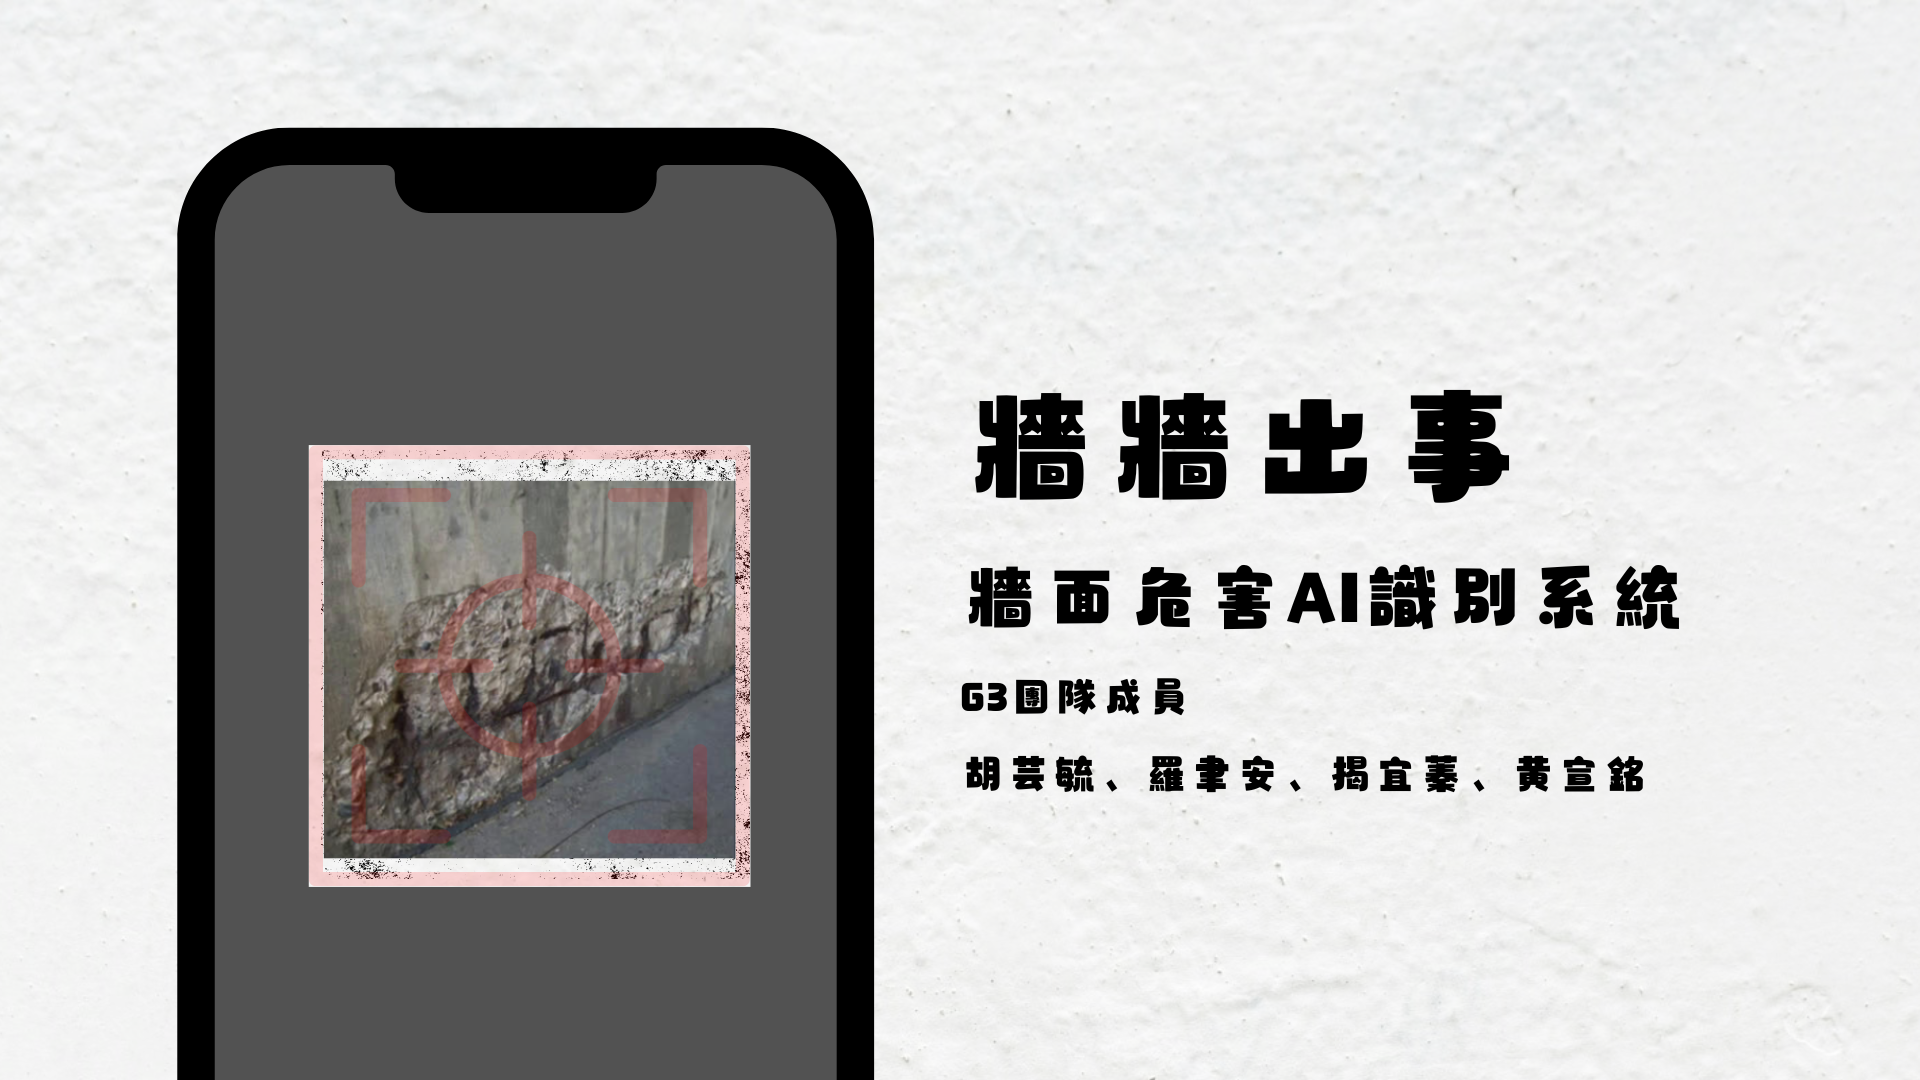
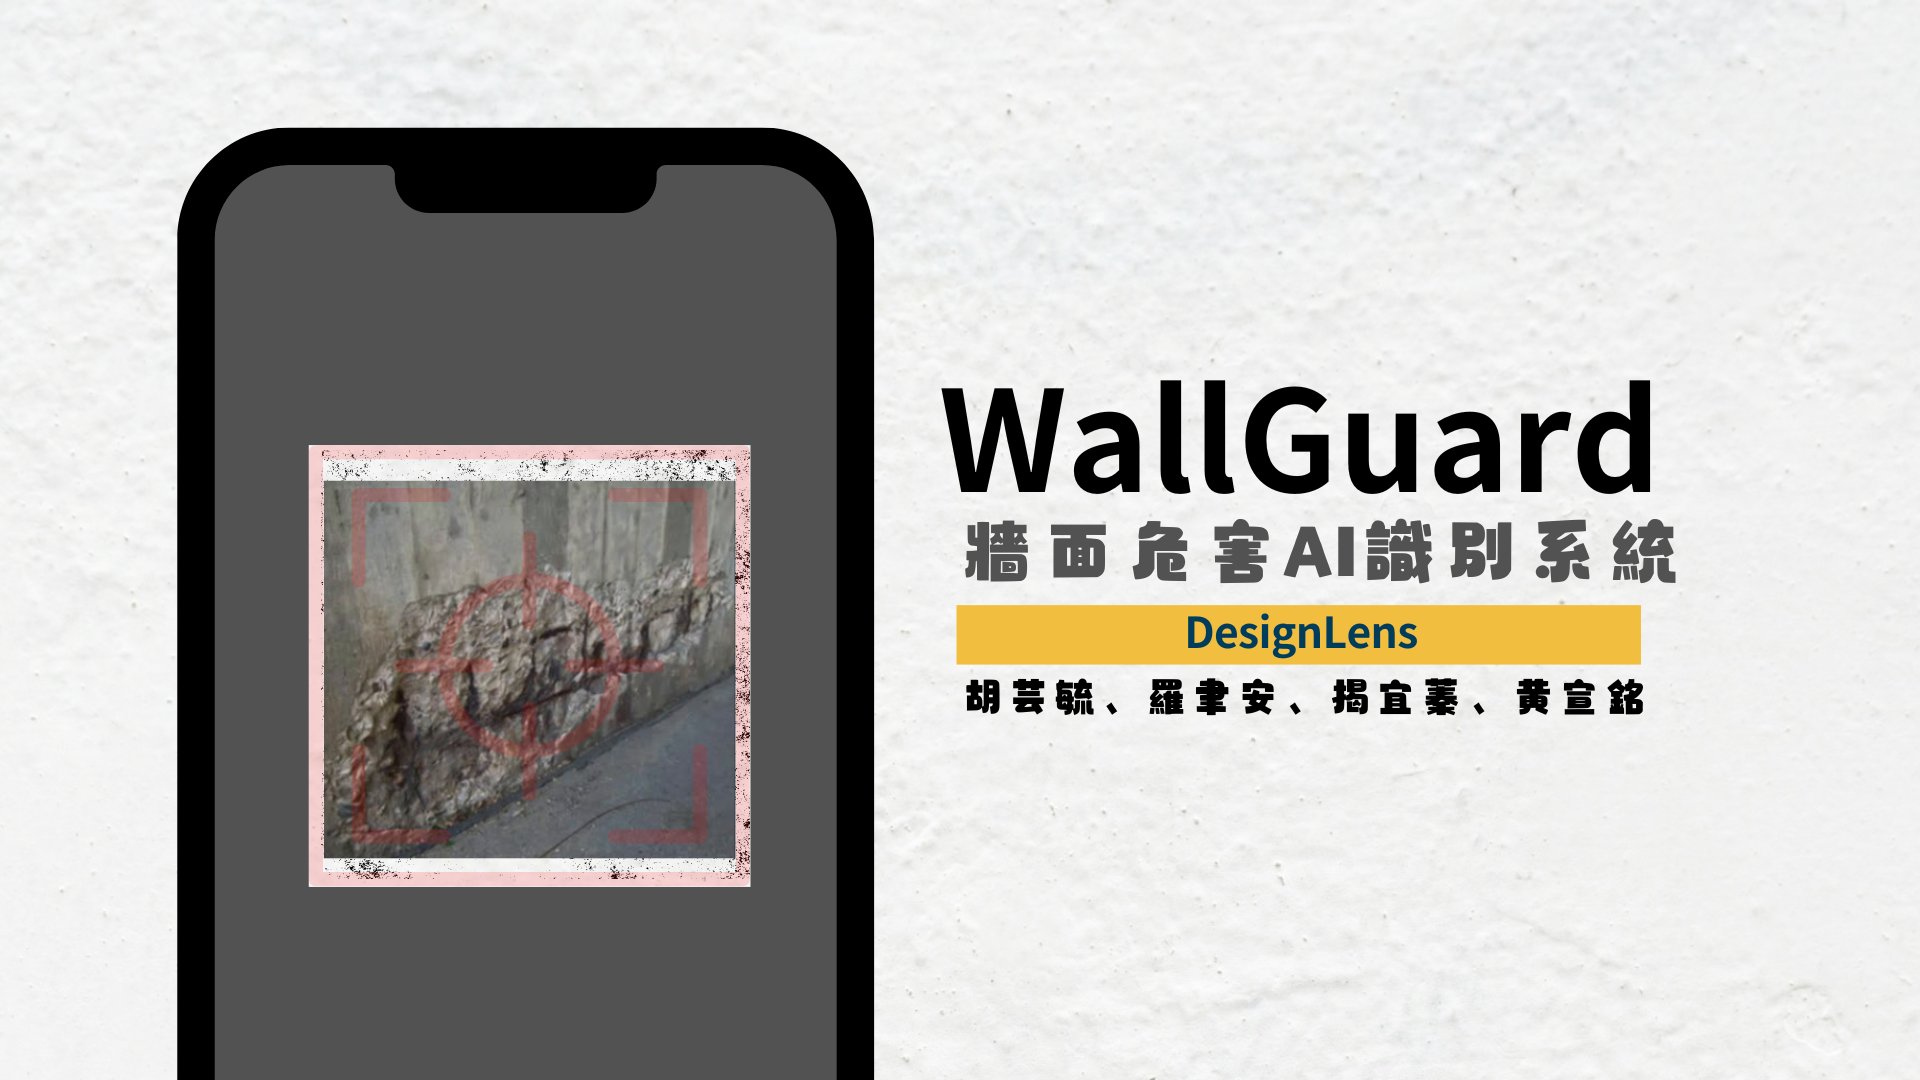
feat(projects): link project cards to external pages

Changed region(s): [[0.4688, 0.3361, 0.875, 0.6722], [0.5, 0.7028, 0.875, 0.7333]]

diff --git a/src/app/projects/page.js b/src/app/projects/page.js
@@ -15,7 +15,7 @@ const projects = [
     title: "健保快易通 Redesign",
     description: "以慢性病與一般民眾為對象，重構健保資訊介面與架構",
     image: NhiImg,
-    url: "https://your-nhi-project-link.com",
+    url: "https://reurl.cc/gRG60z",
     tags: ["使用者研究", "健康資料整合", "介面設計", "主動賦能"]
   },
   {
@@ -23,15 +23,15 @@ const projects = [
     title: "FlexiTouch：軟性裝置互動設計",
     description: "探索柔性材質觸控互動，設計按壓與拉伸的情境體驗",
     image: FlexiImg,
-    url: "https://your-flexitouch-demo.com",
+    url: "https://youtu.be/zUyFzP0OjnA",
     tags: ["TAICHI Best Demo", "League of VR", "遊戲互動設計", "柔性裝置"]
   },
   {
     year: "2024",
-    title: "牆面危害 AI 識別系統",
+    title: "WallGuard:牆面危害 AI 識別系統",
     description: "導入 YOLO 與風險模型，打造即時牆面危害辨識原型",
     image: WallImg,
-    url: "https://your-wall-ai-project.com",
+    url: "https://youtu.be/pVikml-YPsw",
     tags: ["AI識別", "InnoFest 展出", "建築巡檢", "YOLO"]
   },
   {
@@ -39,7 +39,7 @@ const projects = [
     title: "政大場地管理系統 Redesign",
     description: "優化場地借用平台，提升分類清晰度與操作流程",
     image: VenueImg,
-    url: "https://your-nccu-venue-redesign.com",
+    url: "https://reurl.cc/zq1DoV",
     tags: ["UX Redesign", "資訊架構", "流程優化"]
   },
   {
@@ -47,7 +47,7 @@ const projects = [
     title: "iHarbor 長照服務設計",
     description: "以照護者與眷屬的醫病照護關係為核心，設計共享資訊與照護透明化工具",
     image: IHarborImg,
-    url: "https://your-iharbor-project.com",
+    url: "https://www.youtube.com/watch?v=1JmtzLllJCA",
     tags: ["長照設計", "醫病溝通", "服務設計"]
   },
   {
@@ -55,7 +55,7 @@ const projects = [
     title: "Tears of Ancestors：2D 遊戲",
     description: "結合探索與打怪的雙機制，進入創意設計競賽決賽",
     image: TearsImg,
-    url: "https://your-2d-game-link.com",
+    url: "https://youtu.be/utajysQgYvw",
     tags: ["遊戲腳本", "對話設計", "遊戲開發", "決賽入選"]
   },
   {
@@ -63,7 +63,7 @@ const projects = [
     title: "DeepLink（畢業專題＿產學合作）",
     description: "以線上 Webinar 知識分享為切口，打造數位互動履歷平台",
     image: DeepLinkImg,
-    url: "https://your-deeplink-project.com",
+    url: "https://deeplink.tw/#/",
     tags: ["產學合作", "履歷設計", "獲多項獎項", "補助計畫"]
   }
 ];

diff --git a/src/app/about/page.js b/src/app/about/page.js
@@ -105,7 +105,7 @@ export default function About() {
       },
       {
       year: "2024",
-      title: "牆面危害 AI 識別系統",
+      title: "WallGuard：牆面危害 AI 識別系統",
       description: "導入 YOLO 與風險模型，打造即時牆面危害辨識原型",
       tags: ["AI識別", "InnoFest 展出", "建築巡檢", "YOLO"]
       },
